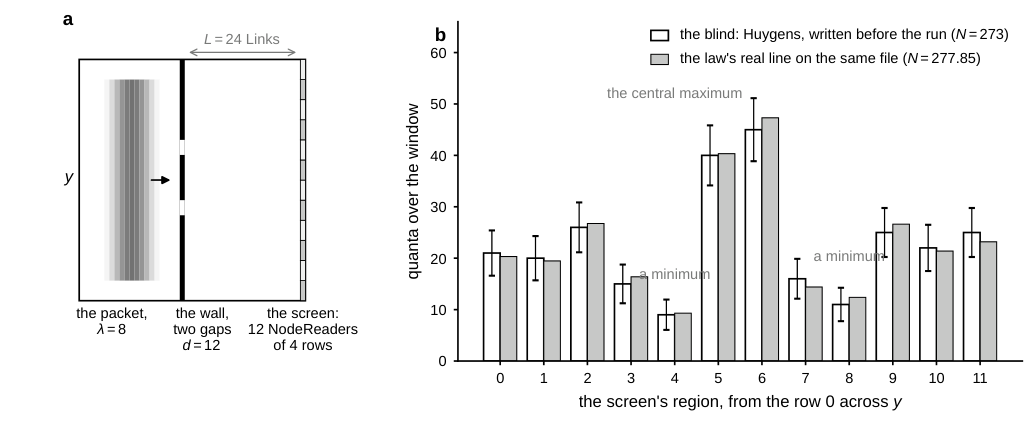
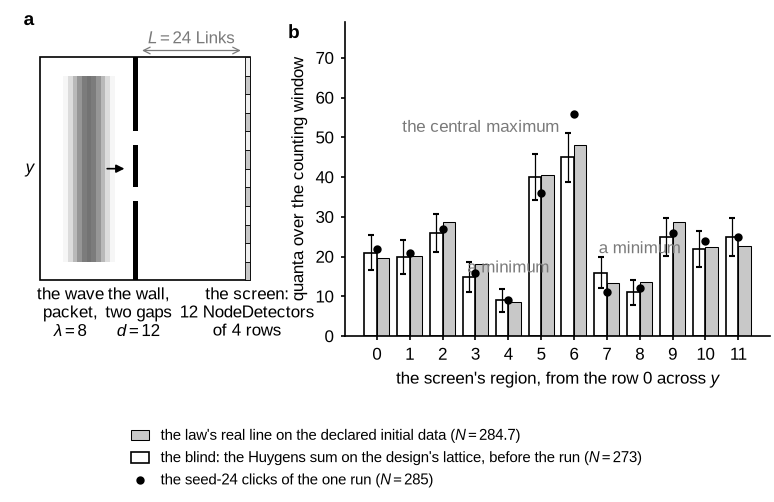
The closing push's final tokens: 1.1's "(no run)", S.23's deposited reading, Fig. 2's PNG preview regenerated with the drawing, and CITATION.cff's concept DOI
The reviewer's form miss at 1.1 L47, "(no run, derived)" to "(no run)" (the advisor's second, the Boss's token); the advisor's wording at S.23, "the run's reading is deposited with the paper (Statements and Declarations) and holds the two seeds' rows", with the twins gate's pin re-keyed to it; figures/two_slits_rows.png, the old drawing, now written by two_slits_rows.py beside the PDF and the EPS from the same figure, so the deposit holds no stale figure; CITATION.cff's doi and first identifier the concept DOI 10.5281/zenodo.22738745 as the paper's Data availability and \bibitem{zenodo} cite it, 22738746 named the first version's record (the Boss's row). Both documents rebuilt: main 41 pages, Online Resource 1 74, 0 errors, 0 undefined, 0 overfull; paper_gates.py 0 misses in all nine; the form gate 0 mid-sentence, 0 fenceless; tools/check.py 143 passed.

Claude-Session: https://claude.ai/code/session_01EK19UKr4ARs4MVajaWCW96

diff --git a/paper/general_formula/supplement.tex b/paper/general_formula/supplement.tex
@@ -506,7 +506,7 @@ where the fourth-order coefficient is $\beta / (16\alpha^4\omega_0)$ over Lorent
 \section*{The two slits (Section 6)}
 
 \begin{derivation}[the fringe's spacing and the near-field minima, Section 6.2]
-\emph{Inputs:} the gaps centred at the rows $18$ and $30$, $d = 12$; the screen $L = 24$ Links from the wall; $\lambda = 8$ Links; gravity's weight $E_g = 10^6$ in this universe, chosen so that the packet's own gravity does not focus it. \emph{Steps:} the far-field spacing is $\lambda L / d = 16$ Links. In the near field the minima are where the two gaps' paths to the screen differ by half a wavelength, $\sqrt{L^2 + (y - 18)^2} - \sqrt{L^2 + (y - 30)^2} = \pm 4$, whose solutions are $y = 15.28$ and $y = 32.72$: the rows $15$ and $33$. An opaque region in one gap takes that gap's inflow, so the screen reads the other gap's envelope and no fringe, by the continuity of the one inflow through the two boundaries. \emph{Check:} the two roots computed from the equation above; the law's real line on this universe gives the exact lay $1{,}810.4$ quanta by Eq.~(5) and $284.7$ units through the screen over the window (the line's $284.7$ was computed after the run; the one number that stood before the run is the blind row's $273$), and $278.9$ on the integer lay of $1{,}809$ quanta, laid at the level $60$'s paces and stepped at the level $0$'s, $6.1$ below the run's $285$ (the paper's Section 6.2); the integer lay's $278.9$ lies below the exact lay's $284.7$ because the before level's mismatch at the lay seeds an opposite-branch admixture that the receding face loses (the two roots $e^{\pm i\omega}$ of the leapfrog line, the backward branch's amplitude from the before level's difference, $18.80$ at most, and its exit through the receding face); the folded lattice returns the Node to itself through both $z$ Ports, so the band is $2\cos\omega = \tfrac23(\cos k_x + \cos k_y + 1)$ exactly at $k_z = 0$; the peak of the screen's inflow is at the interval $69.0$ on the lattice as declared, $62.0$ with the lattice refined fourfold and $62.1$ eightfold (the line evaluated); the gap NodeDetector's net inflow is $-0.58$ over the window; the run's deposited reading is with the paper (Statements and Declarations) and holds the two seeds' rows. The blind row's $273$ is light's line in real arithmetic propagated on the design's lattice from the two gaps as its sources and summed at the screen over the window, Huygens's construction with the lattice's own line as its propagator, called here the Huygens sum; the line stepped over the whole lattice from the laid packet is a second computation, $277.8$ at an earlier design's initial data (the law's document, \cite{algebra}) and $284.7$ at this universe's exact lay; the run of Rule3's integer line on this universe gives $N = 285$ at both seeds, $24$ and $25$, the seed-$24$ clicks' sum of absolute differences from the blind row $28$ of $275$ ($275$ the blind row's sum by its per-Node rounding, $273$ its $N$); the group velocity $\sin k / (3\sin\omega) = 0.547$ Link per interval at $k = \pi / 4$ and $\omega = 0.4456$, the flight over $L' = 34$ Links from the packet's centre (the column $10$) to the screen $62.2$ intervals; the rows $15$ and $33$ fall in the four-row regions $3$ and $8$ counted from $0$; the blind row's dips at the regions $4$ and $8$; the reversal check of Section 3.1, the run forward and back over $40$ intervals with the counting window opening at $45$, so that the check contains no click; the integer step's bound and walk are S.53 (i)'s.
+\emph{Inputs:} the gaps centred at the rows $18$ and $30$, $d = 12$; the screen $L = 24$ Links from the wall; $\lambda = 8$ Links; gravity's weight $E_g = 10^6$ in this universe, chosen so that the packet's own gravity does not focus it. \emph{Steps:} the far-field spacing is $\lambda L / d = 16$ Links. In the near field the minima are where the two gaps' paths to the screen differ by half a wavelength, $\sqrt{L^2 + (y - 18)^2} - \sqrt{L^2 + (y - 30)^2} = \pm 4$, whose solutions are $y = 15.28$ and $y = 32.72$: the rows $15$ and $33$. An opaque region in one gap takes that gap's inflow, so the screen reads the other gap's envelope and no fringe, by the continuity of the one inflow through the two boundaries. \emph{Check:} the two roots computed from the equation above; the law's real line on this universe gives the exact lay $1{,}810.4$ quanta by Eq.~(5) and $284.7$ units through the screen over the window (the line's $284.7$ was computed after the run; the one number that stood before the run is the blind row's $273$), and $278.9$ on the integer lay of $1{,}809$ quanta, laid at the level $60$'s paces and stepped at the level $0$'s, $6.1$ below the run's $285$ (the paper's Section 6.2); the integer lay's $278.9$ lies below the exact lay's $284.7$ because the before level's mismatch at the lay seeds an opposite-branch admixture that the receding face loses (the two roots $e^{\pm i\omega}$ of the leapfrog line, the backward branch's amplitude from the before level's difference, $18.80$ at most, and its exit through the receding face); the folded lattice returns the Node to itself through both $z$ Ports, so the band is $2\cos\omega = \tfrac23(\cos k_x + \cos k_y + 1)$ exactly at $k_z = 0$; the peak of the screen's inflow is at the interval $69.0$ on the lattice as declared, $62.0$ with the lattice refined fourfold and $62.1$ eightfold (the line evaluated); the gap NodeDetector's net inflow is $-0.58$ over the window; the run's reading is deposited with the paper (Statements and Declarations) and holds the two seeds' rows. The blind row's $273$ is light's line in real arithmetic propagated on the design's lattice from the two gaps as its sources and summed at the screen over the window, Huygens's construction with the lattice's own line as its propagator, called here the Huygens sum; the line stepped over the whole lattice from the laid packet is a second computation, $277.8$ at an earlier design's initial data (the law's document, \cite{algebra}) and $284.7$ at this universe's exact lay; the run of Rule3's integer line on this universe gives $N = 285$ at both seeds, $24$ and $25$, the seed-$24$ clicks' sum of absolute differences from the blind row $28$ of $275$ ($275$ the blind row's sum by its per-Node rounding, $273$ its $N$); the group velocity $\sin k / (3\sin\omega) = 0.547$ Link per interval at $k = \pi / 4$ and $\omega = 0.4456$, the flight over $L' = 34$ Links from the packet's centre (the column $10$) to the screen $62.2$ intervals; the rows $15$ and $33$ fall in the four-row regions $3$ and $8$ counted from $0$; the blind row's dips at the regions $4$ and $8$; the reversal check of Section 3.1, the run forward and back over $40$ intervals with the counting window opening at $45$, so that the check contains no click; the integer step's bound and walk are S.53 (i)'s.
  \emph{Status:} derived for the spacing and the minima; computed for the lays, the totals and the arrival; the run's numbers computed, a run; the universe a declaration; lattice and clicks as each sentence marks.
 \end{derivation}
 

diff --git a/paper/general_formula/main.tex b/paper/general_formula/main.tex
@@ -44,7 +44,7 @@
 
 This paper is about one method of computing physics. A cubic lattice of Nodes is stepped by one local rule in whole numbers, Rule3, which is exactly reversible. The lattice is read only through clicks, the reports of declared counting regions, which the model calls NodeDetectors. The title names the parts. The integer cellular automaton is the lattice stepped by Rule3. Universe24 is its clicks, written by the NodeDetectors from the fields of its declared universe. The formulas it shares with nature are the known formulas reached from the one line in lattice form: the Klein-Gordon equation with Schr\"odinger's slow limit, Planck's relation in the band's form (the adiabatic invariant \cite{ehrenfest}) and, under one named assumption, the exponential weak-field metric of gravity (Section~\ref{sec:shared}). The formulas it adds are the lattice's own terms, which depart from the continuum or have no counterpart there (Section~\ref{sec:added}). The paper has one claim: that Universe24 helps compute things in nature. Its content is what the model computes of nature, set against measurement, each quantity with its status and its number, the hits and the misses alike. The method is how it computes, and not the claim. The paper does not claim that nature is such a lattice.
 
-The criterion is the same throughout: a derived, click-fenced formula that disagrees with a measurement beyond its stated order refutes the model at that formula. Section~\ref{sec:limits} lists the refutations found. Universe24 is one world built by the paper's method: two declared universes, the two slits' (the one run, read by its NodeDetectors) and Bell's (no run, derived), and the forms of Sections~\ref{sec:builds} and~\ref{sec:formulas}, derived from the law's lines and computed from no run. Other worlds closer to nature can be built by the same method. Building one needs the calculations named in Section~\ref{sec:closer}, which this work does not do.
+The criterion is the same throughout: a derived, click-fenced formula that disagrees with a measurement beyond its stated order refutes the model at that formula. Section~\ref{sec:limits} lists the refutations found. Universe24 is one world built by the paper's method: two declared universes, the two slits' (the one run, read by its NodeDetectors) and Bell's (no run), and the forms of Sections~\ref{sec:builds} and~\ref{sec:formulas}, derived from the law's lines and computed from no run. Other worlds closer to nature can be built by the same method. Building one needs the calculations named in Section~\ref{sec:closer}, which this work does not do.
 
 The paper starts from one statement and never contradicts it. Universe24 is the meeting of the past with the future; a click is that meeting, the only measurement there is in the model, and in it only clicks are seen (assumption, the paper's first statement; clicks; the key of Section~\ref{sec:key}). A Node holds a field's present and its past, two integer levels. The rule makes the field's future from these two levels and from the six neighbouring Nodes. Run forward from the source Node of its initial data, the split events are the future, every path at once. Read backward from a click that happened, by the same rule, they are the past, and through two slits both of them pass through both gaps. A click is where the two meet at a declared NodeDetector. Which meeting happens is the only thing the model does not determine, the only non-local element of the description (Section~\ref{sec:click}). In the model, what looks like a wave is the future. What looks like a particle is the present, the click. The track is the past.
 

diff --git a/paper/general_formula/two_slits_rows.py b/paper/general_formula/two_slits_rows.py
@@ -67,9 +67,10 @@ SCREEN_X, ROWS_PER_REGION = 44, 4
 
 
 def save(fig: Figure, path: Path) -> None:
-    """The PDF the paper includes and the EPS a journal asks for, side by side."""
+    """The PDF the paper includes, the EPS a journal asks for and a PNG preview, side by side."""
     fig.savefig(path)
     fig.savefig(path.with_suffix(".eps"))
+    fig.savefig(path.with_suffix(".png"), dpi=150)
 
 
 def world(ax: Axes) -> None:

diff --git a/paper/general_formula/paper_gates.py b/paper/general_formula/paper_gates.py
@@ -191,7 +191,7 @@ TWINS = [
             ),
             (
                 "supplement.tex",
-                "the run's deposited reading is with the paper (Statements and Declarations)",
+                "the run's reading is deposited with the paper (Statements and Declarations)",
             ),
         ],
     ),
